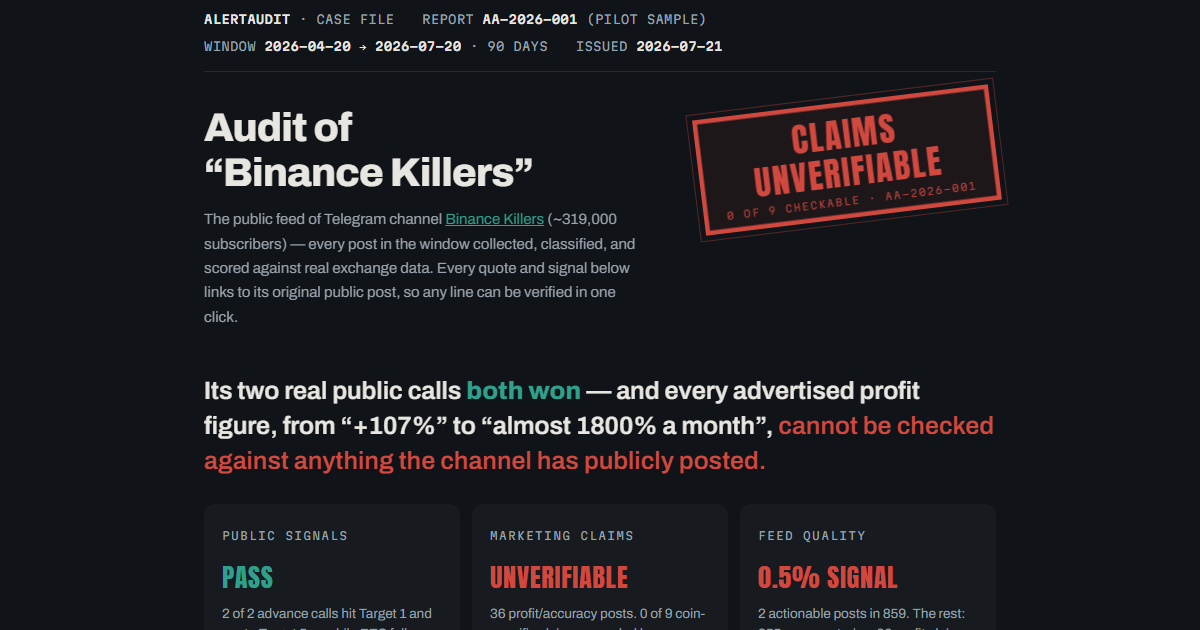
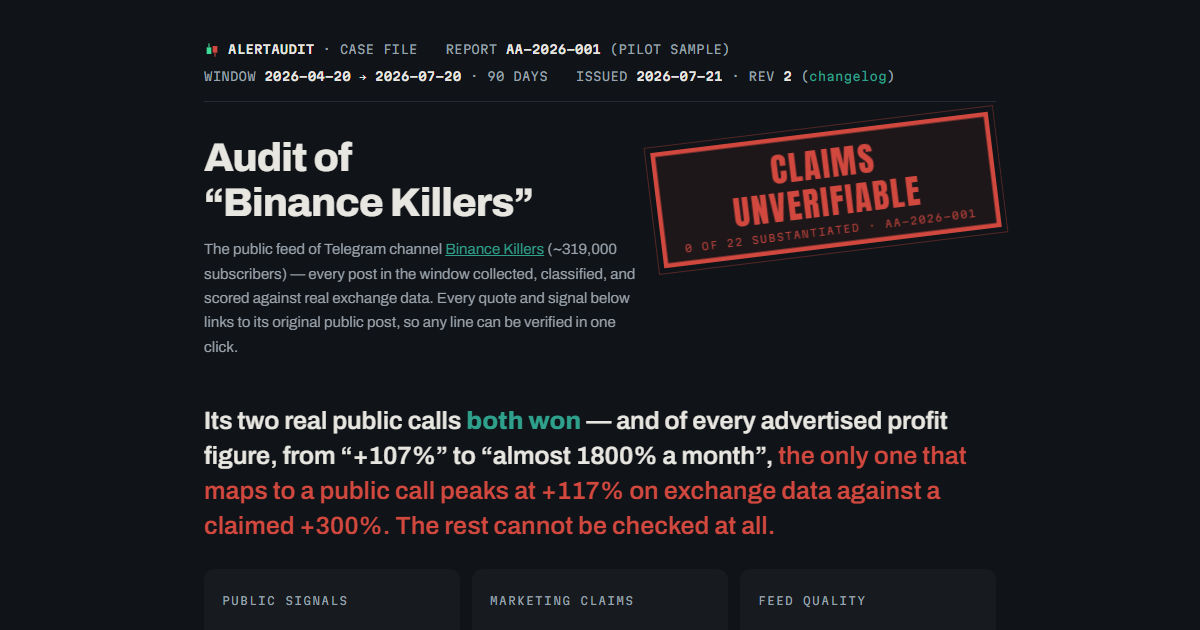
Sample report Rev 2: reader-prompted re-audit corrections
Census: advance-signal posts 4->8 (four in-window ZIG re-posts were
hidden by Telegram preview truncation). Claims inventory: 36->39 posts,
coin-specific claims 9->22; the one claim mapping to a public call
(ZIG +300%) added with its exchange-data peak of +117%. Prior public
ZIG entry calls (Aug 2025-Mar 2026) disclosed. BTC benchmark settled
at -11.6%. Visible changelog added; og-report card regenerated.

Changed region(s): [[0.1542, 0.0, 0.8633, 0.5429], [0.1542, 0.6032, 0.8325, 1.0], [0.1542, 0.5429, 0.185, 0.573]]

diff --git a/sample.html b/sample.html
@@ -2,9 +2,9 @@
 <html lang="en"><head><meta charset="utf-8">
 <meta name="viewport" content="width=device-width, initial-scale=1">
 <title>AlertAudit — Case AA-2026-001 · Binance Killers</title>
-<meta name="description" content="Independent audit of Telegram channel Binance Killers (319k subscribers): 859 public posts, 2 real signals, 0 of 9 profit claims verifiable. Every claim linked to its original post.">
+<meta name="description" content="Independent audit of Telegram channel Binance Killers (319k subscribers): 859 public posts, 2 real signals, 0 of 22 profit claims substantiated by the public feed. Every claim linked to its original post.">
 <meta property="og:title" content="AlertAudit — Audit of Binance Killers">
-<meta property="og:description" content="859 public posts. 2 real signals. 0 of 9 profit claims verifiable. Every line linked to its source.">
+<meta property="og:description" content="859 public posts. 2 real signals. 0 of 22 profit claims substantiated. Every line linked to its source.">
 <meta property="og:image" content="https://alertaudit.io/og-report.png">
 <meta property="og:url" content="https://alertaudit.io/sample.html">
 <meta name="twitter:card" content="summary_large_image">
@@ -203,7 +203,7 @@ a{color:var(--verify)}
     <span style="display:inline-flex;align-items:center;gap:8px"><svg width="16" height="16" viewBox="0 0 24 24" aria-hidden="true" style="display:block"><rect x="4" y="8" width="7" height="10" fill="#3ddc97"/><rect x="6.7" y="2" width="1.6" height="6" fill="#3ddc97"/><rect x="13" y="6" width="7" height="10" fill="#d1483f"/><rect x="15.7" y="16" width="1.6" height="6" fill="#d1483f"/></svg><b>ALERTAUDIT</b> · CASE FILE</span>
     <span>REPORT <b>AA-2026-001</b> (PILOT SAMPLE)</span>
     <span>WINDOW <b>2026-04-20 → 2026-07-20</b> · 90 DAYS</span>
-    <span>ISSUED <b>2026-07-21</b></span>
+    <span>ISSUED <b>2026-07-21</b> · REV <b>2</b> (<a href="#changelog" style="color:var(--verify);text-decoration:none">changelog</a>)</span>
   </div>
   <div class="masthead">
     <h1>Audit of “Binance Killers”</h1>
@@ -212,33 +212,33 @@ a{color:var(--verify)}
     window collected, classified, and scored against real exchange data. Every quote and signal
     below links to its original public post, so any line can be verified in one click.</p>
     <div class="stamp" role="img" aria-label="Verdict stamp: claims unverifiable">
-      CLAIMS<br>UNVERIFIABLE<small>0 OF 9 CHECKABLE · AA-2026-001</small>
+      CLAIMS<br>UNVERIFIABLE<small>0 OF 22 SUBSTANTIATED · AA-2026-001</small>
     </div>
   </div>
 </header>
 
-<p class="verdict-line">Its two real public calls <strong>both won</strong> — and every advertised
-profit figure, from “+107%” to “almost 1800% a month”, <em>cannot be checked against anything the
-channel has publicly posted.</em></p>
+<p class="verdict-line">Its two real public calls <strong>both won</strong> — and of every advertised
+profit figure, from “+107%” to “almost 1800% a month”, <em>the only one that maps to a public call
+peaks at +117% on exchange data against a claimed +300%. The rest cannot be checked at all.</em></p>
 
 <div class="tiles">
   <div class="tile pass" style="--i:0">
     <span class="dim">Public signals</span>
     <div class="word">Pass</div>
-    <p class="ev">2 of 2 advance calls hit Target 1 and ran to Target 5 — while BTC fell 11.8%.
+    <p class="ev">2 of 2 advance calls hit Target 1 and ran to Target 5 — while BTC fell 11.6%.
     Sample of two: 95% CI 34–100%.</p>
   </div>
   <div class="tile fail" style="--i:1">
     <span class="dim">Marketing claims</span>
     <div class="word">Unverifiable</div>
-    <p class="ev">36 profit/accuracy posts. 0 of 9 coin-specific claims preceded by any public
-    advance call. “Zero losses” — untestable.</p>
+    <p class="ev">39 profit/accuracy posts. Of 22 coin-specific claims, 21 have no public advance
+    call — the one that does claims +300% against a +117% public peak.</p>
   </div>
   <div class="tile fail" style="--i:2">
     <span class="dim">Feed quality</span>
-    <div class="word">0.5% signal</div>
-    <p class="ev">2 actionable posts in 859. The rest: 355 commentaries, 36 profit claims,
-    466 promos &amp; misc.</p>
+    <div class="word">0.9% signal</div>
+    <p class="ev">2 unique signals (+6 re-posts) in 859 posts. The rest: 352 commentaries,
+    39 profit claims, 460 promos &amp; misc.</p>
   </div>
 </div>
 
@@ -247,10 +247,10 @@ channel has publicly posted.</em></p>
     <div class="lbl">public posts in 90 days</div></div>
   <div class="bignum"><div class="n mono">2</div>
     <div class="lbl">unique advance signals</div></div>
-  <div class="bignum"><div class="n mono bad">36</div>
+  <div class="bignum"><div class="n mono bad">39</div>
     <div class="lbl">posts claiming profits or accuracy</div></div>
-  <div class="bignum"><div class="n mono bad">0<span style="color:var(--muted)">/9</span></div>
-    <div class="lbl">claims checkable from the public feed</div></div>
+  <div class="bignum"><div class="n mono bad">0<span style="color:var(--muted)">/22</span></div>
+    <div class="lbl">claims substantiated by the public feed</div></div>
 </div>
 
 <section class="exhibit" data-letter="A">
@@ -262,8 +262,8 @@ channel has publicly posted.</em></p>
   <span class="cs">every post in the window, one bar per category</span></figcaption>
   <div class="chart-frame">
   <svg viewBox="0 0 860 278" preserveAspectRatio="xMidYMid meet" role="img"
-       aria-label="Census of 859 posts: 4 advance-signal posts, 36 profit claims, 355 commentaries, 464 promos">
-    <text x="0" y="20" class="cx-blab">Advance signals — 2 unique (+2 reposts)</text><path class="cbar" data-share="0.5% of the feed" data-label="Advance signals — 2 unique (+2 reposts)" data-v="4" d="M0 28 h3.3 a3.3189655172413794 3.3189655172413794 0 0 1 3.3189655172413794 3.3189655172413794 v19.362068965517242 a3.3189655172413794 3.3189655172413794 0 0 1 -3.3189655172413794 3.3189655172413794 h-3.3 z" fill="#2fa08c"/><text x="16.6" y="46" class="cx-bval">4</text><text x="0" y="86" class="cx-blab">Profit claims & accuracy ads</text><path class="cbar" data-share="4.2% of the feed" data-label="Profit claims & accuracy ads" data-v="36" d="M0 94 h55.7 a4 4 0 0 1 4 4 v18 a4 4 0 0 1 -4 4 h-55.7 z" fill="#d1483f"/><text x="69.7" y="112" class="cx-bval">36</text><text x="0" y="152" class="cx-blab">Market commentary (untradeable)</text><path class="cbar" data-share="41.3% of the feed" data-label="Market commentary (untradeable)" data-v="355" d="M0 160 h585.1 a4 4 0 0 1 4 4 v18 a4 4 0 0 1 -4 4 h-585.1 z" fill="#9aa3ad"/><text x="599.1" y="178" class="cx-bval">355</text><text x="0" y="218" class="cx-blab">Promos & misc</text><path class="cbar" data-share="54.0% of the feed" data-label="Promos & misc" data-v="464" d="M0 226 h766.0 a4 4 0 0 1 4 4 v18 a4 4 0 0 1 -4 4 h-766.0 z" fill="#59626e"/><text x="780.0" y="244" class="cx-bval">464</text>
+       aria-label="Census of 859 posts: 8 advance-signal posts, 39 profit claims, 352 commentaries, 460 promos">
+    <text x="0" y="20" class="cx-blab">Advance signals — 2 unique (+6 reposts)</text><path class="cbar" data-share="0.9% of the feed" data-label="Advance signals — 2 unique (+6 reposts)" data-v="8" d="M0 28 h9.3 a4 4 0 0 1 4 4 v18 a4 4 0 0 1 -4 4 h-9.3 z" fill="#2fa08c"/><text x="27.3" y="46" class="cx-bval">8</text><text x="0" y="86" class="cx-blab">Profit claims & accuracy ads</text><path class="cbar" data-share="4.5% of the feed" data-label="Profit claims & accuracy ads" data-v="39" d="M0 94 h60.7 a4 4 0 0 1 4 4 v18 a4 4 0 0 1 -4 4 h-60.7 z" fill="#d1483f"/><text x="78.7" y="112" class="cx-bval">39</text><text x="0" y="152" class="cx-blab">Market commentary (untradeable)</text><path class="cbar" data-share="41.0% of the feed" data-label="Market commentary (untradeable)" data-v="352" d="M0 160 h580.1 a4 4 0 0 1 4 4 v18 a4 4 0 0 1 -4 4 h-580.1 z" fill="#9aa3ad"/><text x="598.1" y="178" class="cx-bval">352</text><text x="0" y="218" class="cx-blab">Promos & misc</text><path class="cbar" data-share="53.6% of the feed" data-label="Promos & misc" data-v="460" d="M0 226 h759.4 a4 4 0 0 1 4 4 v18 a4 4 0 0 1 -4 4 h-759.4 z" fill="#59626e"/><text x="777.4" y="244" class="cx-bval">460</text>
   </svg>
   </div>
 </figure>
@@ -300,7 +300,20 @@ channel has publicly posted.</em></p>
     <div><span class="k">Target 1 (+13.8%)</span>hit 05-10, stop untouched</div>
     <div><span class="k">Best target</span>5 of 9 · mark +50.4%</div>
   </div>
-  
+  <p class="muted"><b style="color:var(--ink)">Prior public ZIG calls, for context:</b> this is at
+  least the fourth public ZIG entry call since August 2025 — entry 0.08–0.112
+  (<a href="https://t.me/binancekillers/17358" target="_blank" rel="noopener">Aug 2025</a>),
+  below 0.06 (<a href="https://t.me/binancekillers/18554" target="_blank" rel="noopener">Jan 2026</a>),
+  below 0.04 (<a href="https://t.me/binancekillers/19233" target="_blank" rel="noopener">Mar 2026</a>),
+  then this signal's below 0.03 — each re-issue roughly 25–30% under the last. Scored from its own
+  timestamp, this call won; a reader who bought inside the Aug 2025 zone holds −47% to −62% at this
+  window's end (0.0423). The signal was also re-posted four times in-window
+  (<a href="https://t.me/binancekillers/19949" target="_blank" rel="noopener">May 10</a>,
+  <a href="https://t.me/binancekillers/19977" target="_blank" rel="noopener">13</a>,
+  <a href="https://t.me/binancekillers/19989" target="_blank" rel="noopener">14</a>,
+  <a href="https://t.me/binancekillers/20050" target="_blank" rel="noopener">21</a>) —
+  price was already above the entry zone by the first re-post.</p>
+
 <figure class="chart" id="ch-bulla">
   <figcaption><span class="ct">Signal 2 — BULLA long</span><span class="cs">posted 2026-07-17 12:25 UTC · Binance futures, 1h closes</span></figcaption>
   <div class="chart-frame">
@@ -328,7 +341,7 @@ channel has publicly posted.</em></p>
   </div>
   <p><b>The $10K test:</b> <span class="mono">$10,978</span> exiting each at Target&nbsp;1, or
   <span class="mono">$14,220</span> riding the ladder to window end — against
-  <span class="mono">$8,820</span> just holding BTC. Both readings beat the market.
+  <span class="mono">$8,840</span> just holding BTC. Both readings beat the market.
   Both rest on exactly two trades — a 2/2 hit rate carries a 95% confidence interval of
   <b>34% to 100%</b>. Two wins is consistent with skill <i>and</i> with luck.</p>
 </section>
@@ -340,25 +353,43 @@ channel has publicly posted.</em></p>
 
 <section class="exhibit" data-letter="C">
   <span class="tag">Exhibit C · Claims vs. public record</span>
-  <h2>36 profit claims. We looked for the trades.</h2>
+  <h2>39 posts claim profits. We looked for the trades.</h2>
   <p>For every coin-specific profit claim in the window, we searched the channel's own public
   history for the advance call it refers to:</p>
   <div class="overflow"><table>
     <tr><th>Date</th><th>Coin</th><th>Claim (verbatim)</th><th>Public advance call</th></tr>
     <tr><td class="mono"><a href="https://t.me/binancekillers/19776" target="_blank" rel="noopener">2026-04-24</a></td><td class="mono">$CHZ</td><td>“+107% profit”</td><td><span class="chip fail">NONE FOUND</span></td></tr>
 <tr><td class="mono"><a href="https://t.me/binancekillers/19811" target="_blank" rel="noopener">2026-04-28</a></td><td class="mono">$XTZ</td><td>“88% profit”</td><td><span class="chip fail">NONE FOUND</span></td></tr>
+<tr><td class="mono"><a href="https://t.me/binancekillers/19876" target="_blank" rel="noopener">2026-05-05</a></td><td class="mono">$ARB</td><td>“ARB. Entered at $0.09. Hit +236.1%”</td><td><span class="chip fail">NONE FOUND</span></td></tr>
+<tr><td class="mono"><a href="https://t.me/binancekillers/19876" target="_blank" rel="noopener">2026-05-05</a></td><td class="mono">$CHZ</td><td>“CHZ hit +107.1%”</td><td><span class="chip fail">NONE FOUND</span></td></tr>
+<tr><td class="mono"><a href="https://t.me/binancekillers/19876" target="_blank" rel="noopener">2026-05-05</a></td><td class="mono">$TAO</td><td>“TAO hit +102%”</td><td><span class="chip fail">NONE FOUND</span></td></tr>
 <tr><td class="mono"><a href="https://t.me/binancekillers/19931" target="_blank" rel="noopener">2026-05-09</a></td><td class="mono">$ICP</td><td>“1225% + total profit for May”</td><td><span class="chip fail">NONE FOUND</span></td></tr>
 <tr><td class="mono"><a href="https://t.me/binancekillers/20127" target="_blank" rel="noopener">2026-05-29</a></td><td class="mono">$WLD</td><td>“🔥 44.2% Profit (5x) 🔥”</td><td><span class="chip fail">NONE FOUND</span></td></tr>
+<tr><td class="mono"><a href="https://t.me/binancekillers/20172" target="_blank" rel="noopener">2026-06-03</a></td><td class="mono">$NEAR</td><td>“NEAR. Entered at $1.28. Hit +278.2%”</td><td><span class="chip fail">NONE FOUND</span></td></tr>
+<tr><td class="mono"><a href="https://t.me/binancekillers/20172" target="_blank" rel="noopener">2026-06-03</a></td><td class="mono">$HYPE</td><td>“HYPE +250%”</td><td><span class="chip fail">NONE FOUND</span></td></tr>
+<tr><td class="mono"><a href="https://t.me/binancekillers/20172" target="_blank" rel="noopener">2026-06-03</a></td><td class="mono">$SUI</td><td>“SUI +224%”</td><td><span class="chip fail">NONE FOUND</span></td></tr>
+<tr><td class="mono"><a href="https://t.me/binancekillers/20172" target="_blank" rel="noopener">2026-06-03</a></td><td class="mono">$FET</td><td>“FET +200%”</td><td><span class="chip fail">NONE FOUND</span></td></tr>
+<tr><td class="mono"><a href="https://t.me/binancekillers/20172" target="_blank" rel="noopener">2026-06-03</a></td><td class="mono">$ZIG</td><td>“ZIG (GEM Signal) +300%”</td><td><a href="https://t.me/binancekillers/19864" target="_blank" rel="noopener">call #19864</a> · <span class="chip fail">PEAK +117%</span></td></tr>
 <tr><td class="mono"><a href="https://t.me/binancekillers/20464" target="_blank" rel="noopener">2026-07-06</a></td><td class="mono">$SKY</td><td>“We called this bounce early and we're currently sitting on a 77% profit (5x) fro…”</td><td><span class="chip fail">NONE FOUND</span></td></tr>
 <tr><td class="mono"><a href="https://t.me/binancekillers/20476" target="_blank" rel="noopener">2026-07-07</a></td><td class="mono">$SOL</td><td>“We're currently sitting on 108% profit (5x) from this call, and price has alread…”</td><td><span class="chip fail">NONE FOUND</span></td></tr>
 <tr><td class="mono"><a href="https://t.me/binancekillers/20488" target="_blank" rel="noopener">2026-07-08</a></td><td class="mono">$UNI</td><td>“We're sitting on 227% profit (5x) from this call, with just the final target lef…”</td><td><span class="chip fail">NONE FOUND</span></td></tr>
+<tr><td class="mono"><a href="https://t.me/binancekillers/20509" target="_blank" rel="noopener">2026-07-10</a></td><td class="mono">$UNI</td><td>“UNI. Entered at $2.47. Hit +227.3%”</td><td><span class="chip fail">NONE FOUND</span></td></tr>
+<tr><td class="mono"><a href="https://t.me/binancekillers/20509" target="_blank" rel="noopener">2026-07-10</a></td><td class="mono">$TAO</td><td>“TAO hit +175%”</td><td><span class="chip fail">NONE FOUND</span></td></tr>
+<tr><td class="mono"><a href="https://t.me/binancekillers/20509" target="_blank" rel="noopener">2026-07-10</a></td><td class="mono">$ASTER</td><td>“ASTER hit +158.3%”</td><td><span class="chip fail">NONE FOUND</span></td></tr>
+<tr><td class="mono"><a href="https://t.me/binancekillers/20509" target="_blank" rel="noopener">2026-07-10</a></td><td class="mono">$AERO</td><td>“AERO hit +126.3%”</td><td><span class="chip fail">NONE FOUND</span></td></tr>
+<tr><td class="mono"><a href="https://t.me/binancekillers/20509" target="_blank" rel="noopener">2026-07-10</a></td><td class="mono">$SOL</td><td>“SOL hit +107.7%”</td><td><span class="chip fail">NONE FOUND</span></td></tr>
 <tr><td class="mono"><a href="https://t.me/binancekillers/20552" target="_blank" rel="noopener">2026-07-15</a></td><td class="mono">$LINK</td><td>“We're sitting on 24% profit with the first target already touched, and price jus…”</td><td><span class="chip fail">NONE FOUND</span></td></tr>
 <tr><td class="mono"><a href="https://t.me/binancekillers/20601" target="_blank" rel="noopener">2026-07-19</a></td><td class="mono">$LINK</td><td>“✔ $LINK up 50% from our entry ✔”</td><td><span class="chip fail">NONE FOUND</span></td></tr>
   </table></div>
-  <div class="finding"><b>Finding:</b> every claim refers to trades whose entry calls never appeared
-  in the public feed — attributed to a private VIP service. From the public record, none of the 9
-  coin-specific claims, nor the month totals of “770%”, “1035%”, “1225%” and “almost 1800%”, can be
-  substantiated <i>or</i> refuted. A track record that cannot be checked is not a track record.</div>
+  <div class="finding"><b>Finding:</b> of the 22 coin-specific claims, 21 refer to trades whose
+  entry calls never appeared in the public feed — attributed to a private VIP service — and can be
+  neither substantiated <i>nor</i> refuted, like the month totals of “770%”, “1035%”, “1225%” and
+  “almost 1800%”. The single claim that does map to a public call — “ZIG (GEM Signal) +300%”
+  (<a href="https://t.me/binancekillers/20172" target="_blank" rel="noopener">#20172</a>, referring
+  to <a href="https://t.me/binancekillers/19864" target="_blank" rel="noopener">signal #19864</a>) —
+  is contradicted by exchange data: the public price path peaked at <b>+117%</b> from the audited
+  fill (Bybit high 0.06107); +300% would require 0.1125, a price ZIG never traded in the window.
+  A track record that cannot be checked is not a track record.</div>
 </section>
 
 <section class="exhibit" data-letter="D">
@@ -386,8 +417,9 @@ channel has publicly posted.</em></p>
     <section class="yes"><h3>The data supports</h3><ul>
       <li>The public feed is 0.5% actionable signal by volume.</li>
       <li>Both real public calls won, in a falling market.</li>
-      <li>Advertised accuracy figures have no public evidence behind them.</li>
-      <li>4% of all posts are performance marketing.</li>
+      <li>Advertised accuracy figures have no public evidence behind them — and the one checkable
+      profit claim is contradicted by exchange data.</li>
+      <li>4.5% of all posts are performance marketing.</li>
     </ul></section>
     <section class="no"><h3>The data cannot tell you</h3><ul>
       <li>Whether the private VIP record is real — nobody outside can check it.</li>
@@ -419,7 +451,10 @@ not financial advice.</li>
 <div class="body">
 <p><b><a href="https://t.me/binancekillers/19864" target="_blank" rel="noopener">Post #19864 · 2026-05-04 13:12 UTC</a></b> — “GEM SIGNAL: $ZIG — Exchanges: ByBit, Bitget, MEXC,
 Gate … ENTRY: Below 0.03 · TARGETS: 0.032 – 0.034 – 0.037 – 0.041 – 0.048 – 0.064 – 0.088 – 0.104 –
-0.128 – OPEN · SL: Below 0.024”</p>
+0.128 – OPEN · SL: Below 0.024” (re-posted <a href="https://t.me/binancekillers/19949" target="_blank" rel="noopener">#19949</a>,
+<a href="https://t.me/binancekillers/19977" target="_blank" rel="noopener">#19977</a>,
+<a href="https://t.me/binancekillers/19989" target="_blank" rel="noopener">#19989</a>,
+<a href="https://t.me/binancekillers/20050" target="_blank" rel="noopener">#20050</a>)</p>
 <p><b><a href="https://t.me/binancekillers/20580" target="_blank" rel="noopener">Post #20580 · 2026-07-17 12:25 UTC</a></b> (reposted <a href="https://t.me/binancekillers/20597" target="_blank" rel="noopener">#20597</a>, <a href="https://t.me/binancekillers/20600" target="_blank" rel="noopener">#20600</a>) — “SIGNAL ID #2183 · COIN:
 $BULLA/USDT (2-5x) · Direction: LONG (Binance Futures) · ENTRY: Below 0.0089 · TARGETS: 0.0091 –
 0.0093 – 0.0096 – 0.01 – 0.011 – 0.0125 – 0.0145 – 0.017 – OPEN · STOP LOSS: Below 0.0061 · ‘Same
@@ -431,8 +466,24 @@ pattern as other coins that pumped 10-20x’”</p>
 <div class="body"><ul>
 <li>Bybit spot ZIGUSDT 1h OHLC (1,858 candles); Binance futures BULLAUSDT 1h OHLC (83 candles).</li>
 <li>Cross-check: Gate.io ZIG_USDT daily close vs Bybit, 2026-05-10 — deviation 0.27%, within tolerance.</li>
-<li>Benchmark: Bybit BTCUSDT daily, 2026-04-20 open 73,803 → 2026-07-20 close 65,125 (−11.8%).</li>
+<li>Benchmark: Bybit BTCUSDT daily, 2026-04-20 open 73,803 → 2026-07-20 close 65,258 (−11.6%).</li>
+<li>Telegram's public preview truncates 8 long posts in the window; each is classified by its
+visible text. The four ZIG re-posts are matched to signal #19864 by identical visible signal text.</li>
 <li>Confidence intervals: Wilson score, 95%.</li>
+</ul></div></details>
+
+<details class="fold" id="changelog"><summary>Changelog</summary>
+<div class="body"><ul>
+<li><b>Rev 2 — 2026-07-21.</b> Reader-prompted re-audit of the ZIG signal's history. Corrections:
+(a) four in-window re-posts of signal #19864 were truncated by Telegram's public preview and
+misclassified — advance-signal posts 4 → 8 (unique signals unchanged at 2);
+(b) three monthly PNL posts (#19876, #20172, #20509) added to the claims inventory — claim posts
+36 → 39, coin-specific claims 9 → 22;
+(c) the one claim that maps to a public call — “ZIG (GEM Signal) +300%” — added with its
+exchange-data ceiling of +117% from the audited fill;
+(d) prior public ZIG entry calls (Aug 2025, Jan 2026, Mar 2026) disclosed as context in Exhibit B;
+(e) BTC benchmark updated to the settled 2026-07-20 daily close (−11.8% → −11.6%).</li>
+<li><b>Rev 1 — 2026-07-21.</b> Initial publication.</li>
 </ul></div></details>
 
 <footer>